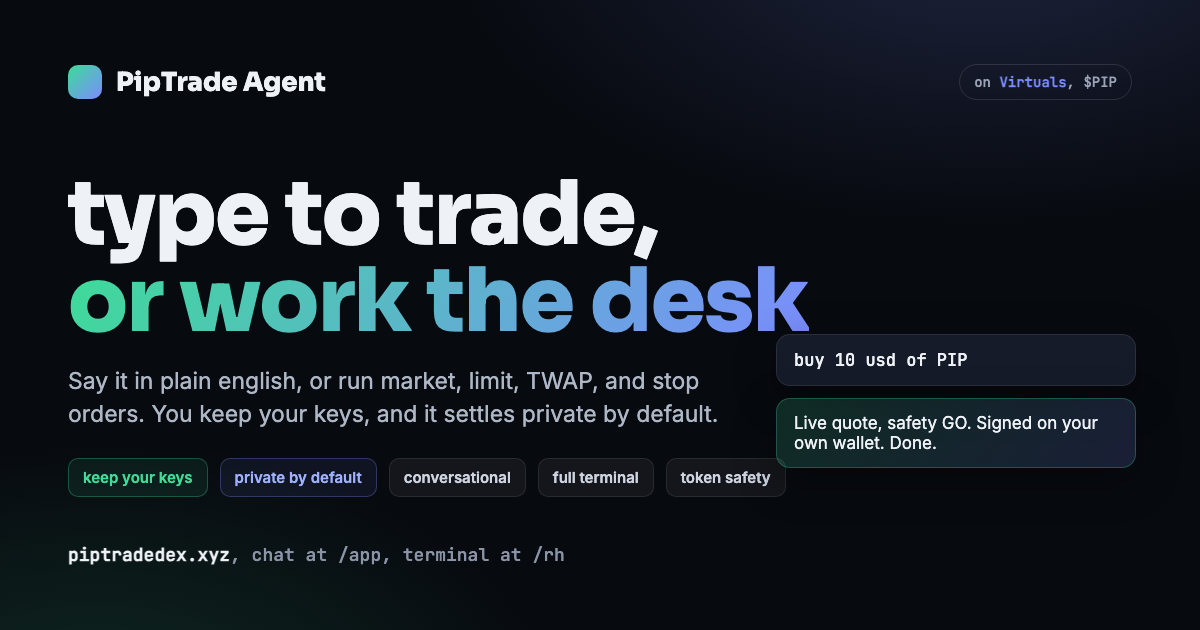
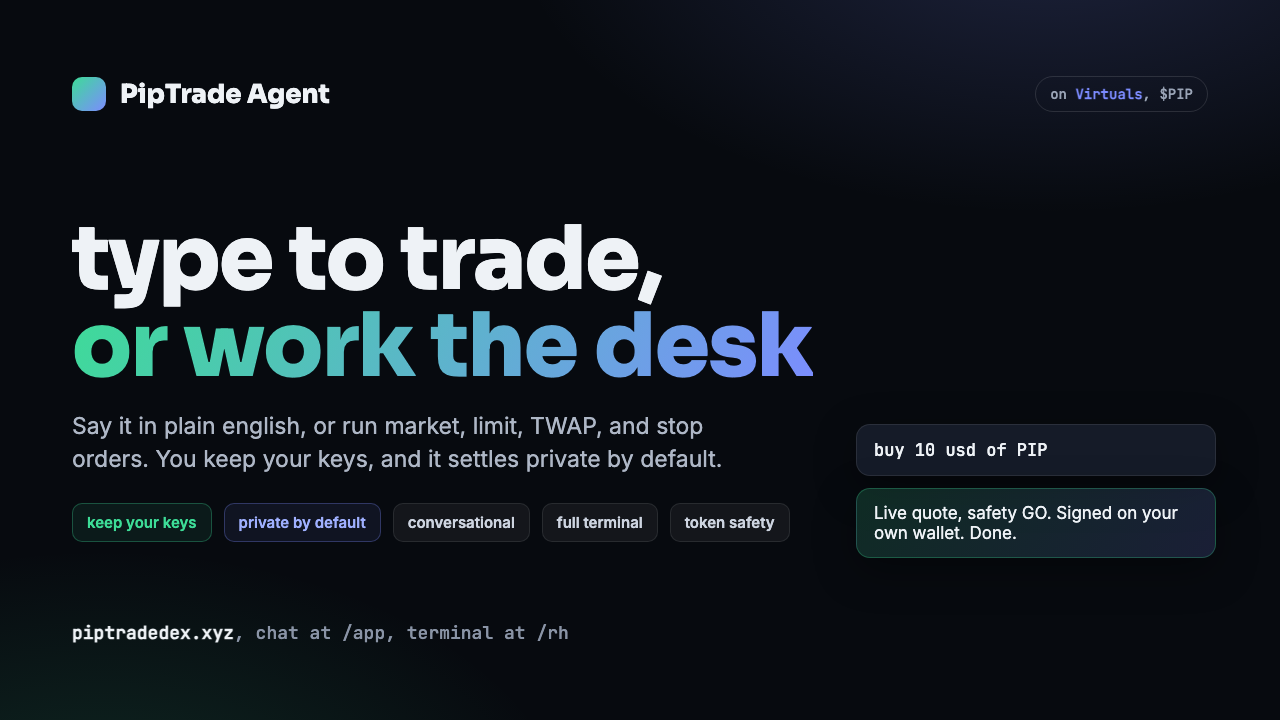
showcase: real private-settlement proof, drop acp, tighten copy, video artifact, 1280x720 poster

diff --git a/showcase/pip-conversational-trader/examples/private-by-default.md b/showcase/pip-conversational-trader/examples/private-by-default.md
@@ -1,23 +1,56 @@
 # Private by default, stated honestly
 
-Pip settles trades and sends private by default. This page says exactly what that means, and what it does not, so no one reads more into it than is true.
+Pip settles trades and sends private by default. This page shows three real settlements the operator made, with the on-chain links, and says exactly what the privacy does and does not mean so no one reads more into it than is true.
 
-## What it does
+## Three real private settlements
 
-- It breaks the direct on-chain link between your wallet and the destination. An observer looking at the chain cannot trivially connect the funds that left your wallet to where they arrived.
-- It applies to swaps and sends by default, not as an extra step you have to remember.
-- It keeps you in custody. You keep your keys the whole way through, and the trade signs in your own wallet.
+### Swap A, base to base
 
-## What it does not do
+- Direction: 30 USDC to 0.0155305 ETH
+- Private: yes
+- Done: 2026-07-21 19:09 UTC
+- Result: two on-chain legs, and the receive is not directly linked to the send.
 
-- It is not a zero knowledge proof. The privacy is unlinkability by construction, not a cryptographic proof of a hidden statement.
-- It does not promise anonymity against every possible analysis. A determined, well resourced observer with side information can still make inferences.
-- It does not hide anything from you. You see the full quote, the route, and the result.
+There is a send leg where funds leave the user wallet:
+
+https://basescan.org/tx/0xaf00110622fa7ff93b9cb2c7ef2655c775d95814b84e1a2c01bea4ef0410377d
+
+And a private receive leg where the funds arrive at the user wallet 0xbbd9aCE37cc8AF0C11Fd050b01a95Ae2d9e8D9f0 from a different counterparty 0x2cff890f0378a11913b6129b2e97417a2c302680:
+
+https://basescan.org/tx/0x2821db35ab0f66ed898a10a8ce5c28f12994cedc3edbb2163d86d9ad217d62ee
+
+Because the receive arrives from a different counterparty than the one the send paid, an observer cannot trivially connect the funds that left the wallet to the funds that arrived. Both transactions are confirmed successful on Base.
+
+### Swap B, cross-chain base to sol
+
+- Direction: 0.000598 ETH to 0.0146482 SOL
+- Private: yes
+- Done: 2026-07-22 09:08 UTC
+- Settled to the in-app Solana wallet C1zCrNGXNc92TmY6f9NWUUaKZjoAbPk9QKn1LHbmN6k4
+
+Crossing to Solana further breaks the link, because the destination sits on a different chain than the funds that were spent on Base.
+
+### Swap C, base to base
+
+- Direction: 0.00011957 ETH to 0.2259 USDC
+- Private: yes
+- Settled to the in-app base wallet
+
+## What is hidden
+
+- The route and the counterparty link. An observer looking at the chain cannot trivially connect the funds that left your wallet to where they arrived, because the receive comes from a different counterparty, and in the cross-chain case it lands on a different chain.
+- This applies to swaps and sends by default, not as an extra step you have to remember.
+
+## What is not hidden
+
+- This is unlinkability by construction, not a zero knowledge proof. There is no cryptographic proof of a hidden statement here, only a break in the direct on-chain link.
+- It does not promise anonymity against every possible analysis. A determined analyst with side information can still infer the connection.
+- It hides nothing from you. You keep your keys the whole way through, and you see the full quote, the route, and the result.
 
 ## Why we frame it this way
 
-Overclaiming privacy is how users get hurt. Pip states the boundary plainly so a person, or an agent acting for a person, can decide with accurate expectations.
+Overclaiming privacy is how users get hurt. Pip states the boundary plainly, unlinkability and not zero knowledge, so a person or an agent acting for a person can decide with accurate expectations.
 
 ## Verify
 
-Try a swap or a send at https://piptradedex.xyz/app and read the quote and settlement for yourself.
+Try a swap or a send at https://piptradedex.xyz/app and read the quote and settlement for yourself, then check the transactions above on Base.

diff --git a/showcase/pip-conversational-trader/examples/chat-to-trade-readback.md b/showcase/pip-conversational-trader/examples/chat-to-trade-readback.md
@@ -1,6 +1,6 @@
 # Chat to trade readback
 
-A plain-english instruction taken all the way to a settled on-chain transaction. Nothing signs until the user confirms, and the trade runs on the user's own wallet.
+One worked example of the conversational execution flow, a plain-english instruction taken to a settled on-chain transaction. This shows the intent, the quote, and the on-chain result for that single trade. Nothing signs until the user confirms, and the trade runs on the user's own wallet.
 
 ## Input
 